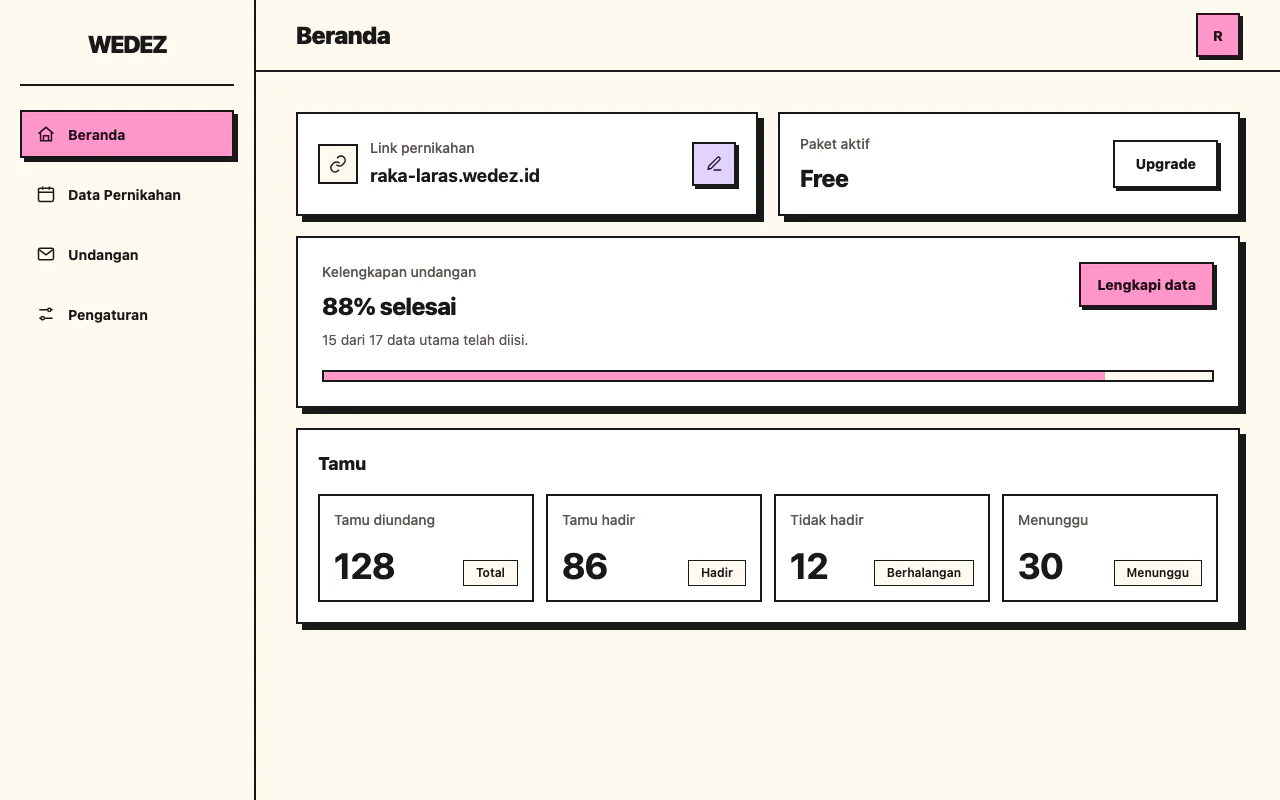
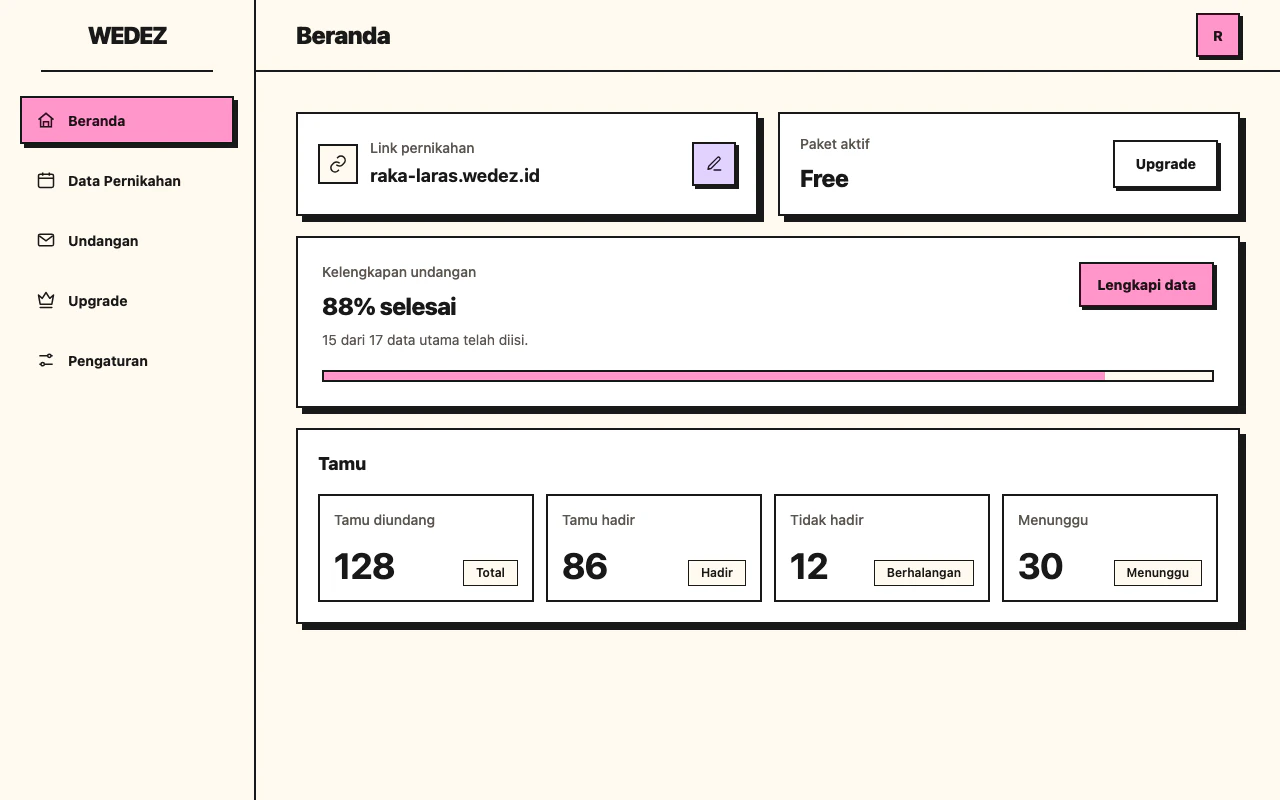
add contact in footer

diff --git a/apps/web/src/lib/features/landing/components/NeubrutalismLanding.svelte b/apps/web/src/lib/features/landing/components/NeubrutalismLanding.svelte
@@ -416,7 +416,9 @@
 	</main>
 	<footer class="border-t-2 border-[#191919] bg-[#fffaf1] text-[#191919]">
 		<div class="nb-container pt-12 sm:pt-14">
-			<div class="grid grid-cols-2 gap-x-6 gap-y-10 md:grid-cols-[1.6fr_0.8fr_0.8fr] md:gap-16">
+			<div
+				class="grid grid-cols-2 gap-x-6 gap-y-10 md:gap-x-10 lg:grid-cols-[1.1fr_1.4fr_0.7fr_0.7fr]"
+			>
 				<div class="col-span-2 md:col-span-1">
 					<a
 						href="#beranda"
@@ -438,6 +440,68 @@
 					<p class="mt-4 max-w-sm text-sm leading-6 text-[#47433f]">
 						Undangan pernikahan digital yang personal, mudah dibuat, dan praktis dibagikan.
 					</p>
+				</div>
+				<div class="col-span-2 md:col-span-1">
+					<h2 class="font-mono text-xs font-bold tracking-[0.16em] uppercase">Hubungi Kami</h2>
+					<address class="mt-5 text-sm leading-6 not-italic">
+						<ul class="space-y-4">
+							<li class="flex items-start gap-3">
+								<svg
+									class="mt-0.5 size-5 shrink-0"
+									viewBox="0 0 24 24"
+									fill="none"
+									stroke="currentColor"
+									stroke-width="1.75"
+									aria-hidden="true"
+								>
+									<path d="M20 10c0 6-8 12-8 12S4 16 4 10a8 8 0 1 1 16 0Z" />
+									<circle cx="12" cy="10" r="3" />
+								</svg>
+								<span
+									>Dusun Sukawangi RT 018 RW 004 Desa Pasirpanjang Kec. Manonjaya Kab. Tasikmalaya,
+									Jawa Barat</span
+								>
+							</li>
+							<li class="flex items-start gap-3">
+								<svg
+									class="mt-0.5 size-5 shrink-0"
+									viewBox="0 0 24 24"
+									fill="none"
+									stroke="currentColor"
+									stroke-width="1.75"
+									stroke-linecap="round"
+									stroke-linejoin="round"
+									aria-hidden="true"
+								>
+									<path
+										d="M22 16.92v3a2 2 0 0 1-2.18 2 19.79 19.79 0 0 1-8.63-3.07 19.5 19.5 0 0 1-6-6 19.79 19.79 0 0 1-3.07-8.67A2 2 0 0 1 4.11 2h3a2 2 0 0 1 2 1.72c.13.96.36 1.9.69 2.8a2 2 0 0 1-.45 2.11L8.09 9.9a16 16 0 0 0 6 6l1.27-1.27a2 2 0 0 1 2.11-.45c.9.33 1.84.56 2.8.69A2 2 0 0 1 22 16.92Z"
+									/>
+								</svg>
+								<a class="underline-offset-4 hover:underline" href="tel:+6281292464061"
+									>+6281292464061</a
+								>
+							</li>
+							<li class="flex items-start gap-3">
+								<svg
+									class="mt-0.5 size-5 shrink-0"
+									viewBox="0 0 24 24"
+									fill="none"
+									stroke="currentColor"
+									stroke-width="1.75"
+									stroke-linecap="round"
+									stroke-linejoin="round"
+									aria-hidden="true"
+								>
+									<rect x="3" y="5" width="18" height="14" rx="1" />
+									<path d="m3 6 9 7 9-7" />
+								</svg>
+								<a
+									class="break-all underline-offset-4 hover:underline"
+									href="mailto:support@wedez.id">support@wedez.id</a
+								>
+							</li>
+						</ul>
+					</address>
 				</div>
 				<nav aria-labelledby="footer-navigation-title">
 					<h2
